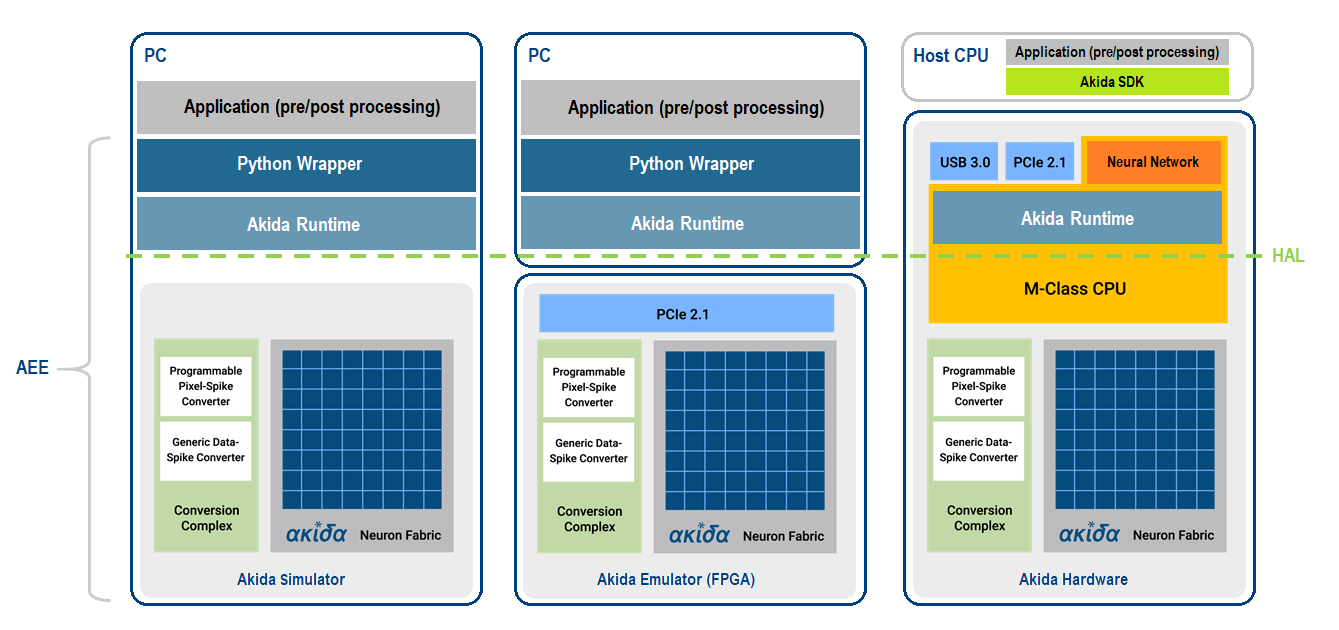
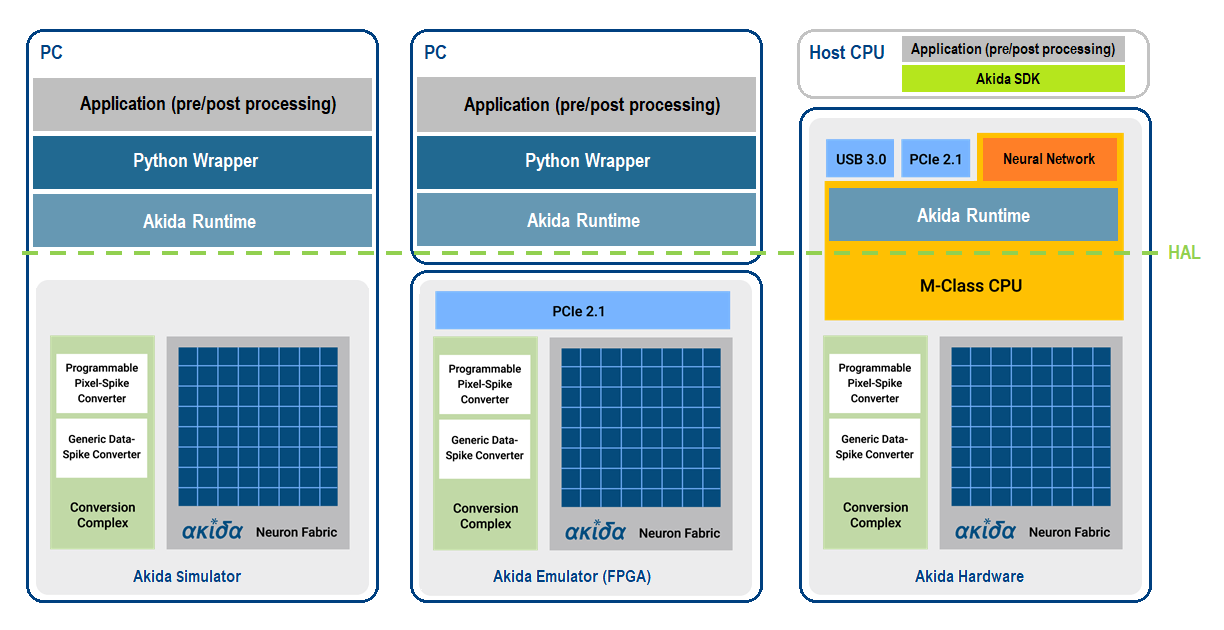
chore: remove AEE acronym

diff --git a/examples/cnn2snn/plot_mnist_cnn2akida_demo.py b/examples/cnn2snn/plot_mnist_cnn2akida_demo.py
@@ -485,8 +485,8 @@ model_akida.summary()
 
 
 ######################################################################
-# 5.2 Performances check with the AEE
-# ^^^^^^^^^^^^^^^^^^^^^^^^^^^^^^^^^^^
+# 5.2 Performances check with the Akida Execution Engine
+# ^^^^^^^^^^^^^^^^^^^^^^^^^^^^^^^^^^^^^^^^^^^^^^^^^^^^^^
 #
 
 num_samples = 1000

diff --git a/doc/user_guide/cnn2snn.rst b/doc/user_guide/cnn2snn.rst
@@ -8,25 +8,25 @@ Overview
 The Brainchip CNN2SNN toolkit provides a means to convert Convolutional Neural
 Networks (CNN) that were trained using Deep Learning methods to a low-latency
 and low-power Spiking Neural Network (SNN) for use with the Akida Execution
-Engine (AEE). This document is a guide to that process.
+Engine. This document is a guide to that process.
 
-The AEE provides Spiking Neural Networks (SNN) in which communications between
-neurons take the form of “spikes” or impulses that are generated when a neuron
-exceeds a threshold level of activation. Neurons that do not cross the threshold
-generate no output and contribute no further computational cost downstream. This
-feature is key to the efficiency of the AEE. The AEE further extends this
-efficiency by operating with low bitwidth “synapses” or weights of connections
-between neurons.
+The Akida Execution Engine provides Spiking Neural Networks (SNN) in which
+communications between neurons take the form of “spikes” or impulses that are
+generated when a neuron exceeds a threshold level of activation. Neurons that
+do not cross the threshold generate no output and contribute no further
+computational cost downstream. This feature is key to Akida hardware efficiency.
+The Akida Execution Engine further extends this efficiency by operating with low
+bitwidth “synapses” or weights of connections between neurons.
 
 Despite the apparent fundamental differences between SNNs and CNNs, the
 underlying mathematical operations performed by each may be rendered identical.
-Consequently, the trained parameters of a CNN can be converted to be compatible
-with those of the AEE, given only a small number of constraints [#fn-1]_. By
-careful attention to specifics in the architecture and training of the CNN, an
-overly complex conversion step from CNN to SNN can be avoided. The CNN2SNN
-toolkit comprises a set of functions designed for the popular `Tensorflow Keras
-<https://www.tensorflow.org/guide/keras>`_ framework, making it easy
-to train a SNN-compatible network.
+Consequently, the trained parameters of a CNN can be converted to be
+Akida-compatible, given only a small number of constraints [#fn-1]_. By careful
+attention to specifics in the architecture and training of the CNN, an overly
+complex conversion step from CNN to SNN can be avoided. The CNN2SNN toolkit
+comprises a set of functions designed for the popular `Tensorflow Keras
+<https://www.tensorflow.org/guide/keras>`_ framework, making it easy to train a
+SNN-compatible network.
 
 Conversion Workflow
 ^^^^^^^^^^^^^^^^^^^
@@ -41,7 +41,7 @@ Compatibility Constraints
 ^^^^^^^^^^^^^^^^^^^^^^^^^
 
 When designing a model from scratch, or converting an existing model to obtain a
-final model compatible with the AEE, consider compatibility at these distinct
+final Akida-compatible model, consider compatibility at these distinct
 levels:
 
 
@@ -66,14 +66,14 @@ the base Keras layer types.
 Typical training scenario
 ^^^^^^^^^^^^^^^^^^^^^^^^^
 
-We recommend preparing your model for the AEE in two (or more) training
-episodes.
+We recommend preparing your model for the in two (or more) training episodes.
 In the first episode, train with the standard Keras versions of the weights
 and activations.
 
 Once it is established that the overall model configuration prior to
 quantization yields a satisfactory performance on the task, proceed with
-quantization suitable for the AEE, changing only the quantization parameters.
+quantization suitable for Akida architecture, changing only the quantization
+parameters.
 
 We recommend saving the weights of your trained non-quantized model and using
 those to initialize the quantized version; typically leading to both faster
@@ -119,7 +119,7 @@ The CNN2SNN toolkit currently supports the following layer types:
   * Dropout
 
 .. note::
-    AEE `check_model_compatibility <../api_reference/cnn2snn_apis.html#check-model-compatibility>`_
+    Akida `check_model_compatibility <../api_reference/cnn2snn_apis.html#check-model-compatibility>`_
     function gives an indication regarding incompatible layers before conversion.
     A good practice is to check model compatibility before going through the
     training process.
@@ -175,16 +175,16 @@ bitwidth of the quantized activations.
 Training-Only Layers
 ^^^^^^^^^^^^^^^^^^^^
 
-The AEE is used in CNN conversion for inference only. Training is done within
-the Keras environment and training-only layers may be added at will, such as
-BatchNormalization or Dropout layers. These are handled fully by Keras during
-the training and do not need to be modified to be Akida-compatible for
-inference.
+The Akida Execution Engine is used in CNN conversion for inference only.
+Training is done within the Keras environment and training-only layers may be
+added at will, such as BatchNormalization or Dropout layers. These are handled
+fully by Keras during the training and do not need to be modified to be
+Akida-compatible for inference.
 
-As regards the implementation within the AEE: it may be helpful to understand
-that the associated scaling operations (multiplication and shift) are never
-performed within the AEE during inference. The computational cost is reduced by
-wrapping the (optional) batch normalization function and quantized activation
+As regards the implementation within the Akida Execution Engine: it may be
+helpful to understand that the associated scaling operations (multiplication and
+shift) are never performed during inference. The computational cost is reduced
+by wrapping the (optional) batch normalization function and quantized activation
 function into the spike generating thresholds and other parameters of the Akida
 SNN.
 That process is completely transparent to the user. It does, however, have an
@@ -198,7 +198,7 @@ Most layers of an Akida model only accept sparse inputs.
 In order to support the most common classes of models in computer vision, a
 special layer (`InputConvolutional <../api_reference/aee_apis.html#inputconvolutional>`__)
 is however able to receive image data (8-bit grayscale or RGB). See the
-`AEE user guide <aee.html>`__ for further details.
+`Akida user guide <aee.html>`__ for further details.
 
 The CNN2SNN toolkit supports any quantization-aware training layer as the first
 layer in the model. The type of input accepted by that layer can be specified
@@ -213,7 +213,7 @@ The `InputConvolutional <../api_reference/aee_apis.html#inputconvolutional>`_
 layer only receives 8-bit input values:
 
 
-* if the data is already in 8-bit format it can be sent to the AEE inputs
+* if the data is already in 8-bit format it can be sent to the Akida inputs
   without rescaling.
 * if the data has been scaled to ease training, it is necessary to provide the
   scaling coefficients at model conversion.
@@ -223,8 +223,8 @@ data are not 8-bit, the process is more complex, and we recommend applying
 rescaling in two steps:
 
 
-#. Taking the data to an 8-bit unsigned integer format suitable for the AEE.
-   Apply this step both for training and inference data.
+#. Taking the data to an 8-bit unsigned integer format suitable for Akida
+   architecture. Apply this step both for training and inference data.
 #. Rescaling the 8-bit values to some unit or zero centered range suitable for
    CNN training, as above. This step should only be applied for the CNN training.
    Also, remember to provide those scaling coefficients when converting the
@@ -234,12 +234,12 @@ Final Layers
 ^^^^^^^^^^^^
 
 As is typical for CNNs, the final layer of a model does not include the
-standard activation nonlinearity. If that is the case, once converted to Akida,
-the model will give the potentials levels and in most cases, taking the
+standard activation nonlinearity. If that is the case, once converted to Akida
+hardware, the model will give the potentials levels and in most cases, taking the
 maximum among these values is sufficient to obtain the correct response from
 the model.
-However, if there is a difference in performance between the Keras and the Akida
-compatible implementations of the model, it is likely be at this step.
+However, if there is a difference in performance between the Keras and the
+Akida-compatible implementations of the model, it is likely be at this step.
 
 Layer Blocks
 ------------
@@ -374,9 +374,10 @@ substitutions that might come in handy:
 
 ____
 
-.. [#fn-1] Typically, for the AEE – quantized weights and quantized activations.
+.. [#fn-1] Typically, for the Akida harware – quantized weights and quantized
+           activations.
 .. [#fn-2] The spike value depends on the intensity of the potential, see the
-           `AEE documentation <aee.html>`_ for details on the activation.
+           `Akida documentation <aee.html>`_ for details on the activation.
 .. [#fn-3] Parallel layers and "residual" connections are currently not
            supported.
 .. [#fn-4] Sparsity refers to the fraction of both weights and activations with

diff --git a/doc/user_guide/aee.rst b/doc/user_guide/aee.rst
@@ -1,6 +1,6 @@
 
-AEE user guide
-==============
+Akida user guide
+================
 
 The Akida Execution Engine
 --------------------------
@@ -46,7 +46,7 @@ processing images like the MNIST dataset, might include the following series of 
 ^^^^^^^^^^^^^^^^^^^^
 
 There are two initial considerations regarding the nature of the data sent to
-the AEE:
+the Akida Execution Engine:
 
 * Data format: events or images?
 * Buffering: continuous data or frames?
@@ -63,48 +63,49 @@ pixel-based and event-based data are available; while other converters will be
 added in subsequent releases.
 
 .. note::
-    When sending (event-based) pre-generated spikes, the first AEE layer should
+    When sending (event-based) pre-generated spikes, the first Akida layer should
     be of type: `InputData <../api_reference/aee_apis.html#inputdata>`__.
 .. note::
-    The AEE integrated spike generator for image data (8-bit grayscale or RGB)
+    The Akida integrated spike generator for image data (8-bit grayscale or RGB)
     is set up by defining the first layer as type:
     `InputConvolutional <../api_reference/aee_apis.html#inputconvolutional>`__.
     This layer is configurable, either using trained-weights imported from a CNN
-    or by setting its kernels through the AEE API.
+    or by setting its kernels through the Akida API.
     A special `InputConvolutional <../api_reference/aee_apis.html#inputconvolutional>`__
-    layer with pre-defined kernels is included in the AEE:
+    layer with pre-defined kernels is included in the Akida Execution Engine:
     `InputBCSpike <../api_reference/aee_apis.html#inputbcspike>`__.
     It contains orientation filters to detect edges.
 
 Input events buffering
 ~~~~~~~~~~~~~~~~~~~~~~
 
-AEE processes many packets of events at a time through its
-`InputData <../api_reference/aee_apis.html#inputdata>`__ layer – from
+The Akida Execution Engine processes many packets of events at a time through
+its `InputData <../api_reference/aee_apis.html#inputdata>`__ layer – from
 tens to hundreds. This requires buffering the inputs to a layer which, depending
 on the nature of the data, is achieved in one of two ways:
 
 
-* By default, the AEE will process data in the form of discrete samples: the
-  events pertaining to a single subject should be grouped and passed to the AEE as
-  a whole. In that case, no matter how many events are sent at once they are
-  immediately processed as a single packet.
+* By default, data is processed in the form of discrete samples: the events
+  pertaining to a single subject should be grouped and passed to the
+  Akida Execution Engine as a whole. In that case, no matter how many events are
+  sent at once they are immediately processed as a single packet.
 * For continuous or ongoing types of data, like the stream of data events
   generated by a DVS camera, the `InputData <../api_reference/aee_apis.html#inputdata>`__
   layer offers a packetizing feature. When packetizing is active, any number of
-  events can be sent to the AEE one at a time, or in very large bursts. In either
-  case, when packetizing is enabled, the `InputData <../api_reference/aee_apis.html#inputdata>`__
-  layer takes events in the order received until it reaches a predefined
-  ``packet_size``, and then sends that packet for processing.
+  events can be sent to the Akida Execution Engine one at a time, or in very
+  large bursts. In either case, when packetizing is enabled, the
+  `InputData <../api_reference/aee_apis.html#inputdata>`__ layer takes events in
+  the order received until it reaches a predefined ``packet_size``, and then
+  sends that packet for processing.
 
 Data frames parallelization
 ~~~~~~~~~~~~~~~~~~~~~~~~~~~
 
-AEE can process several image data frames in parallel through its
-`InputConvolutional <../api_reference/aee_apis.html#inputconvolutional>`__
-layer (or its `InputBCSpike <../api_reference/aee_apis.html#inputbcspike>`__
-variant). All image frames should be grouped together inside a 4-dimensional
-array.
+The Akida Execution Engine can process several image data frames in parallel
+through its `InputConvolutional
+<../api_reference/aee_apis.html#inputconvolutional>`__ layer (or its
+`InputBCSpike <../api_reference/aee_apis.html#inputbcspike>`__ variant). All
+image frames should be grouped together inside a 4-dimensional array.
 
 3. Determine training mode
 ^^^^^^^^^^^^^^^^^^^^^^^^^^
@@ -145,13 +146,13 @@ Neural Network (CNN) that was trained using Deep Learning methods to an Akida
 4. Interpreting outputs
 ^^^^^^^^^^^^^^^^^^^^^^^
 
-Note that the AEE has an unsupervised learning mode. Consequently, while it can
-learn to respond differently to different classes of input, by definition it
-will never attach any meaning or “result” to its outputs. Therefore, many tasks
-will require a classification stage. Either simple labeling of neurons according
-to the classes that drive them best or, highly sophisticated classification
-schemes. The AEE also includes the possibility of (pseudo) supervised
-classification.
+Note that the Akida Execution Engine has an unsupervised learning mode.
+Consequently, while it can learn to respond differently to different classes
+of input, by definition it will never attach any meaning or “result” to its
+outputs. Therefore, many tasks will require a classification stage. Either
+simple labeling of neurons according to the classes that drive them best or,
+highly sophisticated classification schemes. The Akida Execution Engine also
+includes the possibility of (pseudo) supervised classification.
 To summarize, if a training sample has an attached label, it is possible to
 define a layer so that, during the training phase, neurons will only be allowed
 to learn a representation when their target class is presented. During

diff --git a/doc/index.rst b/doc/index.rst
@@ -55,8 +55,8 @@ The Akida Development Environment (ADE) relies on a high-level neural networks
 API, written in Python, and largely inspired by the `Keras API
 <https://keras.io>`_.
 
-The core data structure used by the Akida Execution Engine (AEE) is a neural
-network **model**\ , which itself is a linear stack of **layers**.
+The core data structure used by the Akida Execution Engine is a neural network
+**model**\ , which itself is a linear stack of **layers**.
 
 The ADE leverages `TensorFlow <https://www.tensorflow.org/>`_ framework and
 `PyPI <https://pypi.org/>`_ for BrainChip tools installation.
@@ -82,10 +82,10 @@ due to their close similarity with the signals exchanged by biological neurons.
 
 The Akida Development Environment comprises three main python packages:
 
-* the `Akida Execution Engine (AEE) <https://pypi.org/project/akida>`_ is an
-  interface to the Brainchip Akida Neuromorphic System-on-Chip (NSoC). To allow
-  the development of Akida models without an actual Akida hardware, it includes
-  a runtime, an Hardware Abstraction Layer (HAL) and a software backend that
+* the `Akida Execution Engine <https://pypi.org/project/akida>`_ is an interface
+  to the Brainchip Akida Neuromorphic System-on-Chip (NSoC). To allow the
+  development of Akida models without an actual Akida hardware, it includes a
+  runtime, an Hardware Abstraction Layer (HAL) and a software backend that
   simulates the Akida NSoC (see *Figure 3*\ ).
 
 .. figure:: img/AEE.png
@@ -115,7 +115,7 @@ ImageNet and Google Speech Commands (KWS) datasets.
 .. note::
     | While the Akida examples are provided under an
       `Apache License 2.0 <https://www.apache.org/licenses/LICENSE-2.0.txt>`_,
-      the underlying AEE library is proprietary.
+      the underlying Akida library is proprietary.
     | Please refer to the `End User License Agreement <license.html>`__ for
       terms and conditions.
 

diff --git a/doc/api_reference/api_reference.rst b/doc/api_reference/api_reference.rst
@@ -2,5 +2,5 @@ API reference
 **************
 
 .. toctree::
-   AEE <aee_apis.rst>
+   Akida Execution Engine <aee_apis.rst>
    CNN2SNN <cnn2snn_apis.rst>
